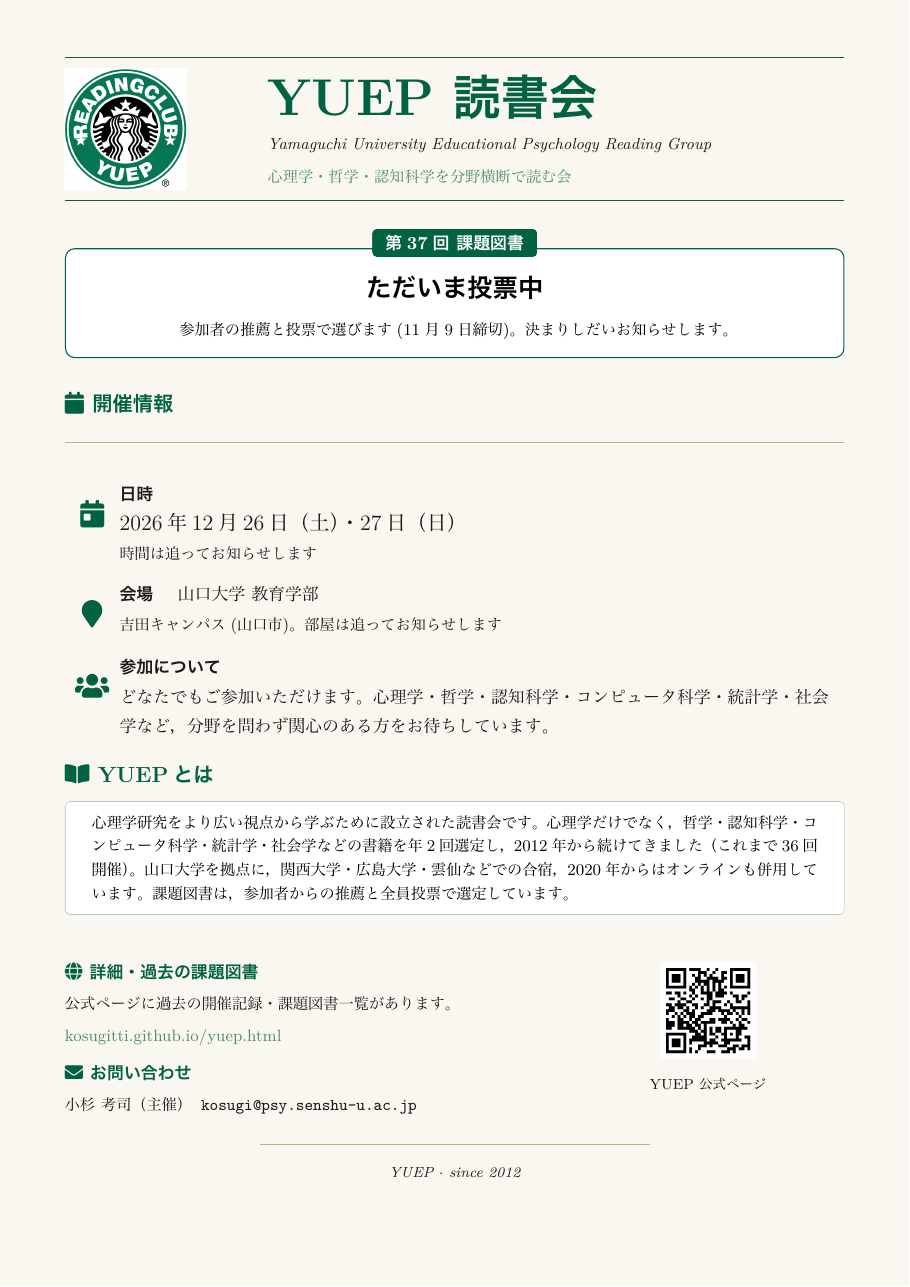
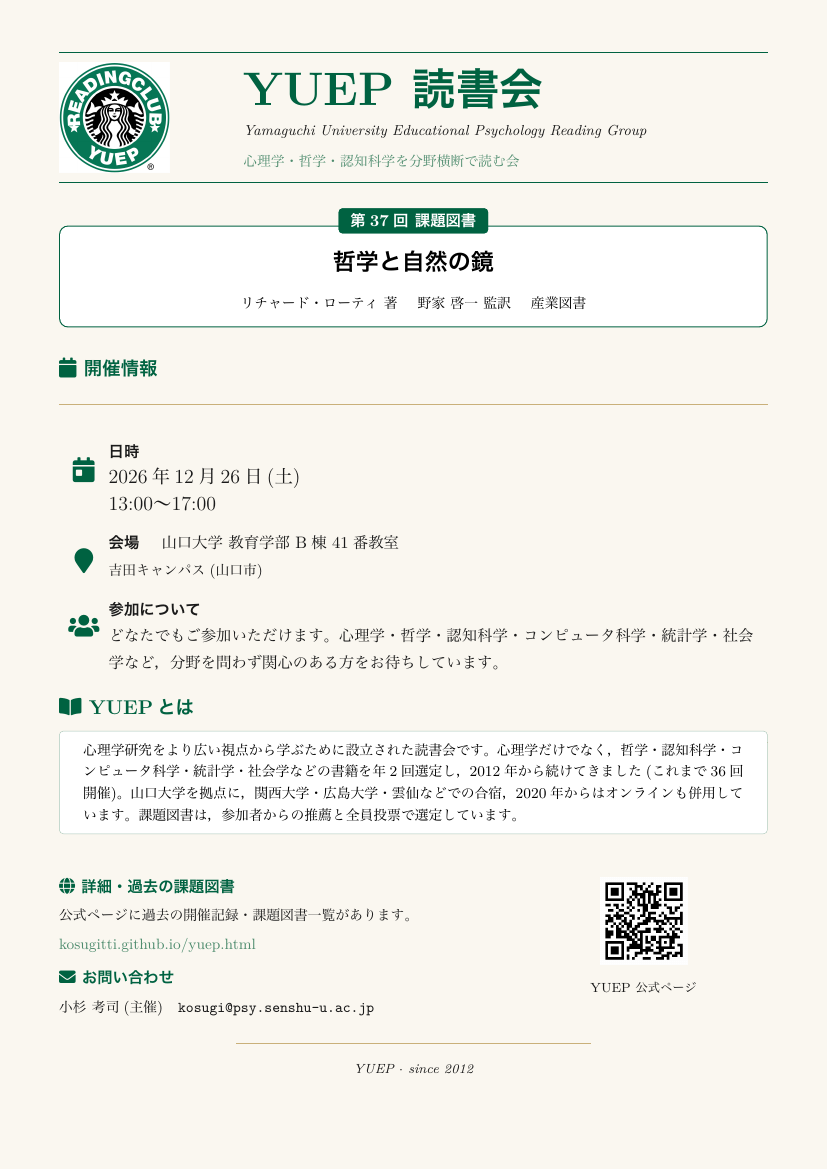
YUEP第37回の課題図書・会場・時間を更新
Claude-Session: https://claude.ai/code/session_0152hwU55Y12CN1kxoveRnQg

diff --git a/docs/yuep.html b/docs/yuep.html
@@ -2,7 +2,7 @@
 <html xmlns="http://www.w3.org/1999/xhtml" lang="ja" xml:lang="ja"><head>
 
 <meta charset="utf-8">
-<meta name="generator" content="quarto-1.10.19">
+<meta name="generator" content="quarto-1.11.9">
 
 <meta name="viewport" content="width=device-width, initial-scale=1.0, user-scalable=yes">
 
@@ -38,14 +38,15 @@ ul.task-list li input[type="checkbox"] {
 <meta name="quarto:offset" content="./">
 <script src="site_libs/quarto-html/quarto.js" type="module"></script>
 <script src="site_libs/quarto-html/tabsets/tabsets.js" type="module"></script>
+<script src="site_libs/quarto-html/scrollable-regions/scrollable-regions.js" type="module"></script>
 <script src="site_libs/quarto-html/popper.min.js"></script>
 <script src="site_libs/quarto-html/tippy.umd.min.js"></script>
 <script src="site_libs/quarto-html/anchor.min.js"></script>
 <link href="site_libs/quarto-html/tippy.css" rel="stylesheet">
-<link href="site_libs/quarto-html/quarto-syntax-highlighting-bf27225e3a48a9273f3daa8f8e829971.css" rel="stylesheet" id="quarto-text-highlighting-styles">
+<link href="site_libs/quarto-html/quarto-syntax-highlighting-63b5708e65d6cd79cd7618c58d0c21e7.css" rel="stylesheet" id="quarto-text-highlighting-styles">
 <script src="site_libs/bootstrap/bootstrap.min.js"></script>
 <link href="site_libs/bootstrap/bootstrap-icons.css" rel="stylesheet">
-<link href="site_libs/bootstrap/bootstrap-445b8638c3d06994fee0907d791121c4.min.css" rel="stylesheet" append-hash="true" id="quarto-bootstrap" data-mode="light">
+<link href="site_libs/bootstrap/bootstrap-d31a0c91b01e363be7b7a36e602e2c70.min.css" rel="stylesheet" append-hash="true" id="quarto-bootstrap" data-mode="light">
 <script id="quarto-search-options" type="application/json">{
   "location": "navbar",
   "copy-button": false,
@@ -77,19 +78,18 @@ ul.task-list li input[type="checkbox"] {
 
 </head>
 
-<body class="nav-fixed quarto-light">
+<body class="nav-fixed quarto-light"><a id="quarto-skip-link" class="visually-hidden-focusable" href="#quarto-document-content">メインコンテンツにスキップ</a>
 
 <div id="quarto-search-results"></div>
   <header id="quarto-header" class="headroom fixed-top">
-    <nav class="navbar navbar-expand-lg " data-bs-theme="dark">
+    <nav class="navbar navbar-expand-lg " data-bs-theme="dark" aria-label="ウェブサイト">
       <div class="navbar-container container-fluid">
       <div class="navbar-brand-container mx-auto">
     <a class="navbar-brand" href="./index.html">
     <span class="navbar-title">Kosugitti Portal</span>
     </a>
   </div>
-            <div id="quarto-search" class="" title="サーチ"></div>
-          <button class="navbar-toggler" type="button" data-bs-toggle="collapse" data-bs-target="#navbarCollapse" aria-controls="navbarCollapse" role="menu" aria-expanded="false" aria-label="ナビゲーションを切り替える" onclick="if (window.quartoToggleHeadroom) { window.quartoToggleHeadroom(); }">
+          <button class="navbar-toggler" type="button" data-bs-toggle="collapse" data-bs-target="#navbarCollapse" aria-controls="navbarCollapse" aria-expanded="false" aria-label="ナビゲーションを切り替える" onclick="if (window.quartoToggleHeadroom) { window.quartoToggleHeadroom(); }">
   <span class="navbar-toggler-icon"></span>
 </button>
           <div class="collapse navbar-collapse" id="navbarCollapse">
@@ -163,6 +163,7 @@ ul.task-list li input[type="checkbox"] {
           </div> <!-- /navcollapse -->
             <div class="quarto-navbar-tools">
 </div>
+            <div id="quarto-search" class="" title="サーチ"></div>
       </div> <!-- /container-fluid -->
     </nav>
 </header>
@@ -171,7 +172,7 @@ ul.task-list li input[type="checkbox"] {
 <!-- sidebar -->
 <!-- margin-sidebar -->
     <div id="quarto-margin-sidebar" class="sidebar margin-sidebar">
-        <nav id="TOC" role="doc-toc" class="toc-active">
+        <nav id="TOC" role="doc-toc" aria-labelledby="toc-title" class="toc-active">
     <h2 id="toc-title">目次</h2>
    
   <ul>
@@ -183,7 +184,7 @@ ul.task-list li input[type="checkbox"] {
 </nav>
     </div>
 <!-- main -->
-<main class="content" id="quarto-document-content">
+<main class="content" id="quarto-document-content" tabindex="-1">
 
 <header id="title-block-header" class="quarto-title-block default">
 <div class="quarto-title">
@@ -206,7 +207,7 @@ ul.task-list li input[type="checkbox"] {
 
 <section id="次回開催のお知らせ" class="level2">
 <h2 class="anchored" data-anchor-id="次回開催のお知らせ">次回開催のお知らせ</h2>
-<p>第37回は2026年12月26日（土）・27日（日），山口大学教育学部で開催します。課題図書は参加者の投票で選定中です（11月9日締切）。時間と部屋は追ってお知らせします。</p>
+<p>第37回は2026年12月26日(土)の13:00〜17:00，山口大学教育学部B棟41番教室で開催します。課題図書は投票の結果，リチャード・ローティ『哲学と自然の鏡』(野家啓一 監訳，産業図書)に決まりました。</p>
 <div class="quarto-figure quarto-figure-center">
 <figure class="figure">
 <p><img src="yuep/flyer_20261226.png" class="img-fluid figure-img" style="width:70.0%"></p>
@@ -351,7 +352,8 @@ ul.task-list li input[type="checkbox"] {
           return filterRegex.test(href) || localhostRegex.test(href) || mailtoRegex.test(href);
       }
       // Inspect non-navigation links and adorn them if external
-     var links = window.document.querySelectorAll('a[href]:not(.nav-link):not(.navbar-brand):not(.toc-action):not(.sidebar-link):not(.sidebar-item-toggle):not(.pagination-link):not(.no-external):not([aria-hidden]):not(.dropdown-item):not(.quarto-navigation-tool):not(.about-link)');
+      window.quartoDecorateExternalLinks = function (root) {
+     var links = (root || window.document).querySelectorAll('a[href]:not(.nav-link):not(.navbar-brand):not(.toc-action):not(.sidebar-link):not(.sidebar-item-toggle):not(.pagination-link):not(.no-external):not([aria-hidden]):not(.dropdown-item):not(.quarto-navigation-tool):not(.about-link)');
       for (var i=0; i<links.length; i++) {
         const link = links[i];
         if (!isInternal(link.href)) {
@@ -360,8 +362,69 @@ ul.task-list li input[type="checkbox"] {
           if (link.dataset.originalHref !== undefined) {
             link.href = link.dataset.originalHref;
           }
+          if (!link.classList.contains('no-external-icon')) {
+          }
         }
       }
+      };
+      window.quartoDecorateExternalLinks(window.document);
+    // Esc closes the popup (WCAG 1.4.13) and focus leaving both trigger and
+    // popup closes it (WCAG 2.4.11); tippy handles neither for interactive popups.
+    const hideOnEscAndFocusOut = {
+      name: 'hideOnEscAndFocusOut',
+      defaultValue: true,
+      fn(instance) {
+        const dismiss = () => {
+          // A show scheduled by the trigger delay would otherwise reopen it
+          instance.clearDelayTimeouts();
+          instance.hide();
+        };
+        const onKeyDown = (event) => {
+          if (event.key !== 'Escape') {
+            return;
+          }
+          // Keep Esc from also reaching page handlers (e.g. reveal.js overview),
+          // except an open reveal.js slide menu, which Esc should close too.
+          // The menu handles keys only when its keyboard option is on.
+          const menuHandlesEsc = window.Reveal?.getPlugin?.('menu')?.isOpen() &&
+            window.Reveal.getConfig().menu?.keyboard !== false;
+          if (!menuHandlesEsc) {
+            event.stopPropagation();
+          }
+          if (instance.popper.contains(window.document.activeElement)) {
+            // Disabled while refocusing so the focus trigger does not reopen it
+            instance.disable();
+            instance.reference.focus();
+            instance.enable();
+          }
+          dismiss();
+        };
+        const onFocusOut = (event) => {
+          const target = event.relatedTarget;
+          if (target && !instance.reference.contains(target) &&
+              !instance.popper.contains(target)) {
+            dismiss();
+          }
+        };
+        // On the trigger too: a click trigger (code-annotations: select) has no
+        // blur handling. Attached for the instance's lifetime so leaving the
+        // trigger also cancels a show still pending on the trigger delay.
+        instance.reference.addEventListener('focusout', onFocusOut);
+        return {
+          onShow() {
+            window.document.addEventListener('keydown', onKeyDown, true);
+            instance.popper.addEventListener('focusout', onFocusOut);
+          },
+          onHide() {
+            window.document.removeEventListener('keydown', onKeyDown, true);
+            instance.popper.removeEventListener('focusout', onFocusOut);
+          },
+          onDestroy() {
+            instance.reference.removeEventListener('focusout', onFocusOut);
+          },
+        };
+      },
+    };
     function tippyHover(el, contentFn, onTriggerFn, onUntriggerFn) {
       const config = {
         allowHTML: true,
@@ -375,6 +438,7 @@ ul.task-list li input[type="checkbox"] {
         interactiveBorder: 10,
         theme: 'quarto',
         placement: 'bottom-start',
+        plugins: [hideOnEscAndFocusOut],
       };
       if (contentFn) {
         config.content = contentFn;
@@ -537,44 +601,54 @@ ul.task-list li input[type="checkbox"] {
           const lineIds = lines.map((line) => {
             return targetCell + "-" + line;
           })
-          let top = null;
-          let height = null;
-          let parent = null;
+          // Each band is positioned against its own containing block, which is
+          // not the offsetParent of the lines, so place it from client rects.
+          const placeBand = (band, firstEl, lastEl, codeBlock) => {
+            const container = band.offsetParent;
+            if (container === null) {
+              return;
+            }
+            const containerRect = container.getBoundingClientRect();
+            // Reveal.js scales slides with a transform, so convert client
+            // pixels back to the CSS pixels of the container.
+            const scale = containerRect.height / container.offsetHeight || 1;
+            const firstRect = firstEl.getBoundingClientRect();
+            const lastRect = lastEl.getBoundingClientRect();
+            const top = (firstRect.top - containerRect.top) / scale - container.clientTop + container.scrollTop;
+            const height = (lastRect.bottom - firstRect.top) / scale;
+            band.style.top = top - 2 + "px";
+            band.style.height = height + 4 + "px";
+            if (codeBlock) {
+              // Without the copy button wrapper, the containing block is wider
+              // than the code block, so span the code block explicitly.
+              const blockRect = codeBlock.getBoundingClientRect();
+              band.style.left = (blockRect.left - containerRect.left) / scale - container.clientLeft + container.scrollLeft + "px";
+              band.style.width = blockRect.width / scale + "px";
+            }
+          };
           if (lineIds.length > 0) {
-              //compute the position of the single el (top and bottom and make a div)
-              const el = window.document.getElementById(lineIds[0]);
-              top = el.offsetTop;
-              height = el.offsetHeight;
-              parent = el.parentElement.parentElement;
-            if (lineIds.length > 1) {
-              const lastEl = window.document.getElementById(lineIds[lineIds.length - 1]);
-              const bottom = lastEl.offsetTop + lastEl.offsetHeight;
-              height = bottom - top;
+            const el = window.document.getElementById(lineIds[0]);
+            const lastEl = window.document.getElementById(lineIds[lineIds.length - 1]);
+            const parent = el.parentElement.parentElement;
+            // cook up a div (if necessary) and position it
+            let div = window.document.getElementById("code-annotation-line-highlight");
+            if (div === null) {
+              div = window.document.createElement("div");
+              div.setAttribute("id", "code-annotation-line-highlight");
+              div.style.position = 'absolute';
+              parent.appendChild(div);
             }
-            if (top !== null && height !== null && parent !== null) {
-              // cook up a div (if necessary) and position it 
-              let div = window.document.getElementById("code-annotation-line-highlight");
-              if (div === null) {
-                div = window.document.createElement("div");
-                div.setAttribute("id", "code-annotation-line-highlight");
-                div.style.position = 'absolute';
-                parent.appendChild(div);
-              }
-              div.style.top = top - 2 + "px";
-              div.style.height = height + 4 + "px";
-              div.style.left = 0;
-              let gutterDiv = window.document.getElementById("code-annotation-line-highlight-gutter");
-              if (gutterDiv === null) {
-                gutterDiv = window.document.createElement("div");
-                gutterDiv.setAttribute("id", "code-annotation-line-highlight-gutter");
-                gutterDiv.style.position = 'absolute';
-                const codeCell = window.document.getElementById(targetCell);
-                const gutter = codeCell.querySelector('.code-annotation-gutter');
-                gutter.appendChild(gutterDiv);
-              }
-              gutterDiv.style.top = top - 2 + "px";
-              gutterDiv.style.height = height + 4 + "px";
+            placeBand(div, el, lastEl, parent.closest("div.sourceCode") || parent);
+            let gutterDiv = window.document.getElementById("code-annotation-line-highlight-gutter");
+            if (gutterDiv === null) {
+              gutterDiv = window.document.createElement("div");
+              gutterDiv.setAttribute("id", "code-annotation-line-highlight-gutter");
+              gutterDiv.style.position = 'absolute';
+              const codeCell = window.document.getElementById(targetCell);
+              const gutter = codeCell.querySelector('.code-annotation-gutter');
+              gutter.appendChild(gutterDiv);
             }
+            placeBand(gutterDiv, el, lastEl);
             selectedAnnoteEl = annoteEl;
           }
         };
@@ -672,6 +746,9 @@ ul.task-list li input[type="checkbox"] {
       }
     }
   });
+  </script>
+  <script type="application/javascript">
+  window.quartoScrollableRegionsLabels = {"code":"スクロール可能なコード","output":"スクロール可能な出力"};
   </script>
 </div> <!-- /content -->
 <footer class="footer">
